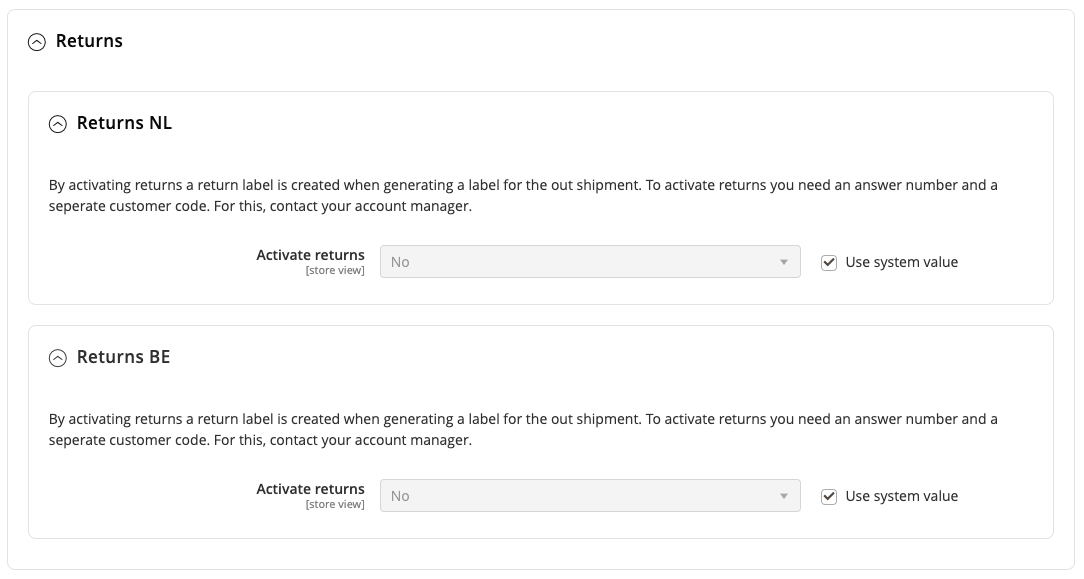
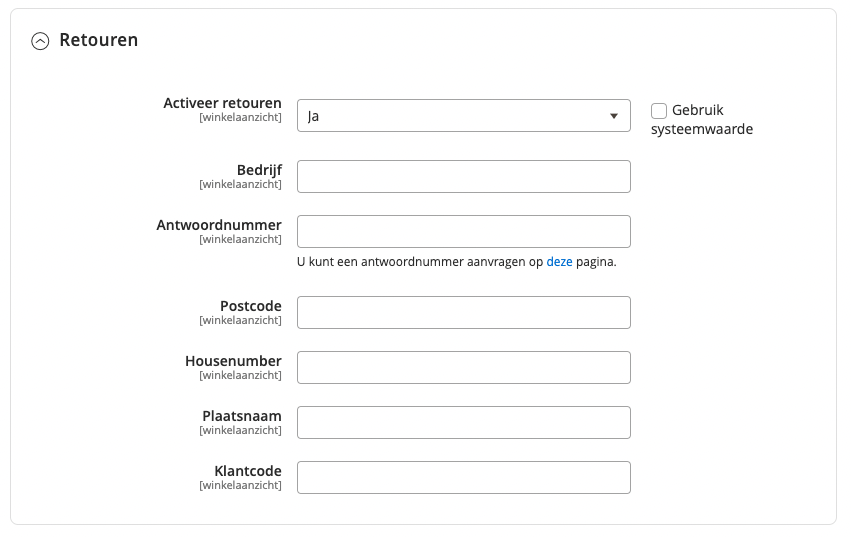
Updated guides

diff --git a/_chapters/5_extra_instellingen.md b/_chapters/5_extra_instellingen.md
@@ -1,9 +1,43 @@
 ## Extra instellingen
 
-### Printer instellingen
+### Printerinstellingen
+Onder de printerinstellingen kan het formaat van de labels ingesteld worden, waarbij er gekozen kan worden tussen A4 en A6. 
+Daarnaast kan er gekozen worden om de pdf direct te downloaden of om deze in een nieuw venster te openen.
+![Logging]({{ site.baseurl }}/assets/images/5_extra_printer.png "PostNL Magento 2 printerinstellingen")
 
 ### Label- en packingslipopties
+Binnen de PostNL extensie is er de opties om labels te printen of of pakbonnen te printen. Voor beide opties zijn er configuraties beschikbaar.
+
+Op de labels verschijnt links boven een referentie, hierbij kan er gekozen worden om hiervoor geen waarde, zending ID, bestelling ID of een eigen waarde weer te geven. 
+Bij deze laatste optie kan bijvoorbeeld een voorvoegsel toegevoegd worden aan het zending ID. 
+Hiervoor kunnen de volgende variabelen gebruikt worden: `{{var shipment_increment_id}}`, `{{var order_increment_id}}` en `{{var store_frontend_name}}`. 
+De uiteindelijke tekst mag niet meer zijn dan 28 karakters.
+
+Standaard wordt het aantal pakketten berekend op het gewicht, waarbij 20kg als maximaal gewicht wordt genomen. 
+Bij bestellingen die boven dit gewicht uitkomen, zal er voor ieder pakket een los label worden geprint. 
+Er kan ook worden gekozen om het op basis van een voorgedefineerd aantal pakketten te doen.
+
+![Logging]({{ site.baseurl }}/assets/images/5_extra_label_packingslip.png "PostNL Magento 2 label en pakbon instellingen")
+
+#### Barcode-instellingen
+Op de pakbonnen kan een barcode geprint worden, na het scannen zal deze de bijpassende order erbij zoeken in het order grid. 
+Standaard wordt de barcode rechtsboven op de pakbon geprint, deze positie kan naar wens aangepast worden op basis van coördinaten op de PDF.
+
+Voor de barcode kan er gekozen worden uit diverse type barcodes te weten *Code 25*, *Code 39*, *Code 128*, *RoyalMail*.
+![Logging]({{ site.baseurl }}/assets/images/5_extra_barcode_pakbon.png "PostNL Magento 2 barcode pakbon")
 
 ### Adresvalidatie
+Door de adresvalidatie te activeren wordt er een adresvalidatie toegevoegd in de frontend van de webshop voor Nederlandse adressen.
+![Logging]({{ site.baseurl }}/assets/images/5_extra_adresvalidatie_front.png "PostNL Magento 2 adresvalidatie checkout")
+Bij de adresvalidatie wordt op basis van de ingevoerde postcode en huisnummer, automatisch de straatnaam en de plaatsnaam ingeladen.
+De adresvalidatie voorkomt daarmee fouten in de ingevoerde Nederlandse adressen.
+
+Binnen de instellingen kan worden aangegeven of het design van de webshop is gebaseerd op het Magento Blank of het Magento Luma thema, om zo de best passende styling te verzorgen.
+![Logging]({{ site.baseurl }}/assets/images/5_extra_adresvalidatie.png "PostNL Magento 2 adresvalidatie")
+
 
 ### Geavanceerde instellingen
+Onder de geavanceerde instellingen kan worden aangegeven welke verzendmethoden gebruikt worden voor PostNL zendingen. De bestellingen die middels deze verzendmethoden worden aangemaakt, worden verwerkt door de PostNL extensie.
+![Logging]({{ site.baseurl }}/assets/images/6_extra_geavanceerd.png "PostNL Magento 2 geavanceerde instellingen")
+Door de toolbar te activeren komen er extra opties in het bestellingen en verzendingen overzicht, waarmee onder andere de productcode of het aantal pakketen van een order aangepast kan worden.
+![Logging]({{ site.baseurl }}/assets/images/6_extra_geavanceerd_toolbar.png "PostNL Magento 2 geavanceerde instellingen")

diff --git a/_chapters/4_wereldwijd_verzenden.md b/_chapters/4_wereldwijd_verzenden.md
@@ -1,0 +1,30 @@
+## Wereldwijd verzenden
+
+Activeer wereldwijd verzenden voor uw klanten om bestellingen met PostNL te kunnen versturen naar landen `buiten de EU`, hiervoor wordt gebruik gemaakt van het PostNL's *Globalpack* product.
+
+Globalpack kan geactiveerd worden met de gegevens die ontvangen zijn vanuit PostNL.
+
+[https://www.postnl.nl/versturen/pakket-versturen/pakket-buitenland/](https://www.postnl.nl/versturen/pakket-versturen/pakket-buitenland/)
+
+De instellingen voor wereldwijd verzenden staan onder: *Stores → Configuration → Sales → PostNL*, de instellingen staan onder *Wereldwijd verzenden*. Wereldwijd verzenden kan hier geactiveerd worden en de standaard productoptie voor Globalpack kan hier ingesteld worden.
+
+![Wereldwijde verzending instellingen]({{ site.baseurl }}/assets/images/4_wereldwijd_verzenden.png "Magento 2 Admin - PostNL Wereldwijd")
+
+### Barcode instellingen
+Onder het kopje barcode instellingen moet het barcode type (bestaande uit twee letters) en de barcode range (bestaande uit 4 cijfers) ingevuld worden zoals deze door PostNL is aangeleverd. Ontbreekt deze informatie, neem dan contact op met de PostNL accountmanager.
+
+![Wereldwijde verzending barcode]({{ site.baseurl }}/assets/images/4_wereldwijd_barcode.png "Magento 2 Admin - PostNL Wereldwijd Barcode")
+
+### Douane instellingen
+Bij de douane instellingen kan het licentienummer en certificaatnummer ingevuld worden (indien u daarover beschikt) en er kan een standaard verzendtype worden geselecteerd.
+
+Onder de douane instellingen is de mogelijkheid om *productattributen en sortering* opties in te stellen.
+Hier kan aangegeven worden of er gebruik gemaakt moet worden van een HS tarief, opties voor product beschrijving, land van herkomst en op welke manier de producten gesorteerd dienen te worden.
+
+ - Stel bij de *Douane waarde* het attribuut in wat gebruikt moet worden om de waarde van het product te bepalen.
+ - Stel bij *Land van herkomst* het attribuut in dat gebruikt moet worden om het land van herkomst van het product te bepalen.
+ - Stel bij *Productomschrijving* het attribuut in dat gebruikt moet worden voor de productomschrijving.  
+ - Met het *Product sortering attribuut* kan aangegeven worden op basis van welke waarde de producten gesorteerd moeten worden.
+ - Bij de *Product sortering richting* kan aangegeven worden of de producten op oplopende of aflopende volgorde worden gesorteerd moeten worden.
+
+![Wereldwijde verzending douane]({{ site.baseurl }}/assets/images/4_wereldwijd_douane.png "Magento 2 Admin - PostNL Wereldwijd Douane")

diff --git a/_chapters/3_algemene_instellingen.md b/_chapters/3_algemene_instellingen.md
@@ -2,7 +2,7 @@
 Nadat de PostNL extensie is geïnstalleerd is deze in de backend van de Magento webshop terug te vinden onder *Winkels → Configuratie → Sales → PostNL*.
 
 ### Verzendinstellingen
-De *overkomstduur* is het aantal dagen dat de bestelling nodig heeft om bezorgd te worden nadat deze is geplaatst. In combinatie met de ingestelde *cut-off tijden* en de *verzenddagen* bepaald de plugin wanneer de klant de bestelling kan verwachten.
+De *overkomstduur* is het aantal dagen dat de bestelling nodig heeft om bezorgd te worden nadat deze is geplaatst. In combinatie met de ingestelde *cut-off tijden* en de *verzenddagen* bepaald de extensie wanneer de klant de bestelling kan verwachten.
 ![Verzend instellingen]({{ site.baseurl }}/assets/images/3_verzend_instellingen.png "Magento 2 Admin - PostNL Verzenden")
 
 ### Bezorginstellingen
@@ -143,12 +143,10 @@ Bij de handmatige optie kan een bestelling op twee plaatsen aangemerkt worden al
 
 
 ### Retourinstellingen
-Activeer retourenen voor Nederland en België voor uw klanten. De extensie maakt automatisch retour labels aan voor Nederland/België.
+Retouren zijn beschikbaar voor Nederland en België. Na activatie dient het retouradres ingevuld te worden, waarbij het land afhankelijk is van het geozken verzendland.
+De extensie voegt na de activatie automatisch retourlabels toe bij het printen van de labels voor Nederland / België.
 
-Om retour labels voor Nederland/België te kunnen laten generen hebt u een antwoordnummer en een apart klantnummer nodig.
-U kunt hiervoor contact opnemen met uw account manager.
+> Om retourlabels te kunnen laten generen is een antwoordnummer en een apart klantnummer nodig. Hiervoor akn contact opgenomen met uw account manager of het kan [hier](https://www.postnl.nl/zakelijke-oplossingen/ontvangen/antwoordnummer/) aangevraagd worden.
 
-De instellingen voor retourenen Nederland/België staan onder: *Stores → Configuration → Sales → PostNL*, de instellingen staan onder `PostNL Settings → Returns`.
-Je kan hier apart voor Nederland en België de retourlabel optie uit en aan zetten.
 ![Retour instellingen]({{ site.baseurl }}/assets/images/3_retour_instellingen.png "Magento 2 Admin - PostNL Retouren")
 

diff --git a/_chapters/6_ontwikkelaarsinstellingen.md b/_chapters/6_ontwikkelaarsinstellingen.md
@@ -1,7 +1,9 @@
-## Ontwikkelaarsinstellingen
+## Ontwikkelaar instellingen
 
 ### Logging
 Er zijn een aantal verschillende eigenschappen die meegegeven kunnen worden in de logging. Dit kan handig zijn als er een probleem met de extensie onderzocht moet worden.
+
+> De log bestanden zijn op de server terug te vinden in de folder *var/log/PostNL*. Wanneer u zelf niet bij deze bestanden, raadpleeg dan uw ontwikkelpartij.
 
 De logging instellingen zijn terug te vinden via *Stores → Configuration → Sales → PostNL → Logging*.
 
@@ -9,11 +11,11 @@ De logging instellingen zijn terug te vinden via *Stores → Configuration → S
 
 **INFO:** Interessante gebeurtenissen die plaatsvinden.
 
-**NOTICE:** Normale maar belangrijke processen.
+**NOTICE:** Normale, maar belangrijke processen.
 
-**WARNING:** Uitzonderlijke voorvallen welke geen errors zijn.
+**WARNING:** Uitzonderlijke voorvallen wat geen errors zijn.
 
-**ERROR:** Foutmeldingen die niet direct verholpen dienen te worden maar wel gemonitord/gelogged blijven worden.
+**ERROR:** Foutmeldingen die niet direct verholpen dienen te worden, maar wel gemonitord/gelogd blijven worden.
 
 **CRITICAL:** Kritische fouten.
 >Bijvoorbeeld: Onderdeel van een extensie is onbeschikbaar.

diff --git a/index.md b/index.md
@@ -7,7 +7,7 @@ Op deze pagina vind u de handleiding van de Magento 2 PostNL extensie. Voor meer
 {% include_relative _chapters/1_installatie.md %}
 {% include_relative _chapters/2_algemene_configuratie.md %}
 {% include_relative _chapters/3_algemene_instellingen.md %}
-{% include_relative _chapters/4_wereldwijde_verzending.md %}
+{% include_relative _chapters/4_wereldwijd_verzenden.md %}
 {% include_relative _chapters/5_extra_instellingen.md %}
 {% include_relative _chapters/6_ontwikkelaarsinstellingen.md %}
 {% include_relative _chapters/7_verwerken_orders.md %}

diff --git a/_chapters/2_algemene_configuratie.md b/_chapters/2_algemene_configuratie.md
@@ -2,7 +2,7 @@
 Nadat de PostNL extensie is geïnstalleerd is deze in de backend van de Magento webshop terug te vinden onder *Winkels → Configuratie → Sales → PostNL*.
 
 ### Accountinstellingen
-Om gebruik te kunnen maken van de plugin dient u eerst de Accountinstellingen en het adres van de afzender in te stellen.
+Om gebruik te kunnen maken van de extensie dient u eerst de Accountinstellingen en het adres van de afzender in te stellen.
 
 ![Algemene configuratie]({{ site.baseurl }}/assets/images/2_algemene_configuratie.png "Magento 2 Admin")
 
